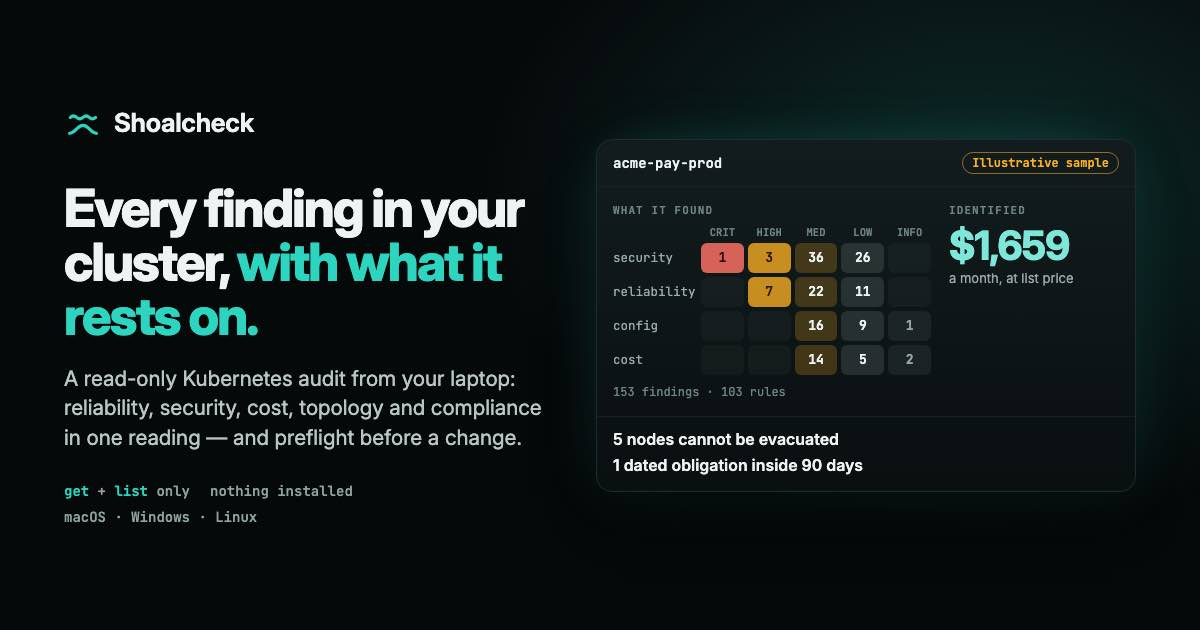
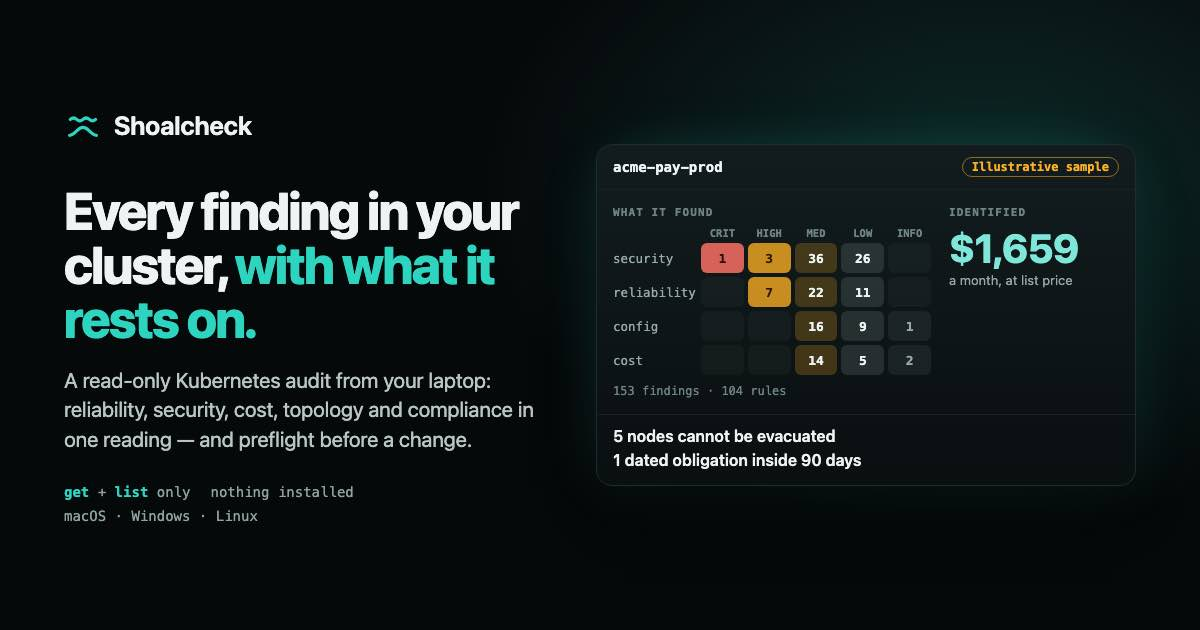
site: site: 104 rules in every reading, the share card re-rendered

diff --git a/index.html b/index.html
@@ -188,7 +188,7 @@
 <!-- ═══ PROOF STRIP ═══ -->
 <section class="strip" aria-label="What it does, in numbers">
   <div class="wrap strip-grid">
-    <div class="stat reveal"><b>103</b><span>rules in every reading, each naming what it rests on</span></div>
+    <div class="stat reveal"><b>104</b><span>rules in every reading, each naming what it rests on</span></div>
     <div class="stat reveal"><b>47</b><span>resource types it may read — get and list, nothing else</span></div>
     <div class="stat reveal"><b>0</b><span>object writes — counted, not promised</span></div>
     <div class="stat reveal"><b>3</b><span>systems: macOS, Windows, Linux</span></div>
@@ -727,11 +727,11 @@
 </footer>
 
 <script type="application/json" id="flow-data">{"cluster":"acme-pay-prod","sample":"testdata/golden/sample-audit.json","steps":[{"key":"read","sources":[{"command":"shoalcheck findings --input sample-audit.json --severity critical,high && shoalcheck findings --input sample-audit.json --each --category cost --limit 3","env":"TZ=UTC","tool":"shoalcheck, built from this tree (cmd/shoalcheck)","input":"testdata/golden/sample-audit.json","date":"2026-10-22"}],"runs":[{"cmd":"shoalcheck findings --input sample-audit.json --severity critical,high","out":["#  WHY          SEV       N  $/MO  FINDING                                                                  WORKLOAD","1  critical     critical  1     -  Review cluster-admin grant on ServiceAccount workers/cicd-deployer       ClusterRoleBinding acme-deployer-cluster-admin","2  true now     high      4     -  No ready address is published for api/api-gateway                        Service api/api-gateway","3  next change  high      1     -  A node roll meets 5 of 12 nodes it cannot evacuate                       Node ip-10-0-1-a","4  next change  high      1     -  Losing zone eu-central-1a leaves 2 pods with no node this model accepts  Pod payments/payments-ledger-db-0","5  posture      high      2     -  ClusterRole cluster-admin permits every verb on every resource           ClusterRole cluster-admin","6  posture      high      1     -  ClusterRoleBinding acme-break-glass binds Group system:masters           ClusterRoleBinding acme-break-glass","7  posture      high      1     -  Single replica without PDB: monitoring/prometheus-k8s                    StatefulSet monitoring/prometheus-k8s","acme-pay-prod · reading of 15 Sep 2026 05:28 · sample-audit.json","7 rows, one per rule, for 11 of 153 findings · --each lists every finding"],"exit":0},{"cmd":"shoalcheck findings --input sample-audit.json --each --category cost --limit 3","out":["#   WHY    SEV     $/MO  FINDING                                                                  WORKLOAD","22  money  medium  $365  Kubernetes 1.31 is past AWS's ordinary support window                    Cluster 1.31","23  money  medium  $300  Right-size over-provisioned requests on workers/webhook-dispatcher       Deployment workers/webhook-dispatcher","24  money  low     $266  3 r6i.4xlarge nodes list 10% above r6a.4xlarge, an equivalent x86 shape  Node ip-10-0-2-a","acme-pay-prod · reading of 15 Sep 2026 05:28 · sample-audit.json","3 of 153 findings shown (21 match, --limit 3)"],"exit":0}]},{"key":"review","sources":[{"command":"claude -p \"$(cat prompt.txt)\" --model opus --output-format stream-json --verbose --max-budget-usd 5 --mcp-config '{\"mcpServers\":{\"shoalcheck\":{\"type\":\"stdio\",\"command\":\"<shoalcheck-mcp built from this tree>\"}}}' --strict-mcp-config --tools \"\" --allowedTools mcp__shoalcheck__list_readings,mcp__shoalcheck__list_findings,mcp__shoalcheck__explain_finding,mcp__shoalcheck__diff_readings,mcp__shoalcheck__request_reading --permission-mode dontAsk --setting-sources \"\" --disable-slash-commands --no-session-persistence","env":"SHOALCHECK_HOME=<a scratch home whose history holds the sample reading>, SHOALCHECK_LICENCE=<a Team key>","tool":"Claude Code 2.1.307, headless; shoalcheck-mcp built from this tree (cmd/shoalcheck-mcp), its only tools","model":"claude-opus-5-5","input":"testdata/golden/sample-audit.json, saved into that history through history.Store","date":"2026-10-22"},{"command":"shoalcheck ticket push --from sample-audit.json --tracker linear --project <TEAM> --finding <id> --dry-run","env":"TZ=UTC","tool":"shoalcheck, built from this tree (cmd/shoalcheck)","input":"testdata/golden/sample-audit.json; each finding is the one the agent named for that team","date":"2026-10-22"}],"model":"claude-opus-5-5","prompt":"Review the latest Shoalcheck reading of our cluster. Group the findings by the team that owns them, and pick the one finding each team should fix first. Explain the webhook-dispatcher right-sizing finding in full, including what it does not establish. Then propose one ticket per team: the finding it is for and a title. Keep it short — a few lines per team, no tables.","calls":[{"tool":"list_readings","args":{},"answer":{"readings":[{"cluster":"acme-pay-prod","at":"2026-09-15T05:28:50Z","ageSeconds":3171713,"signature":"signed","…":true}],"count":1},"chars":174},{"tool":"list_findings","args":{"group_by":"owner"},"answer":{"reading":{"cluster":"acme-pay-prod","readingAt":"2026-09-15T05:28:50Z","ageSeconds":3171713,"signature":"signed","staleness":{"note":"this reading is 881 hours old, past this server's 24-hour threshold. It is served in full and nothing is withheld; a fresher one needs a human to run an audit — see the request_reading tool.","…":true},"…":true},"groupBy":"owner","groups":[{"key":"(no owner resolved)","count":43,"dollars":822.874,"…":true},{"key":"data","count":39,"dollars":515.5391025641026,"…":true},{"key":"core-api","count":30,"dollars":149.38794871794872,"…":true},{"key":"payments","count":29,"dollars":159.00897435897437,"…":true},{"key":"sre","count":12,"dollars":12.484871794871795,"…":true}],"envelope":{"total":153,"totalDollars":1659.2948974358974,"…":true}},"chars":4150},{"tool":"list_findings","args":{"owner":"data","limit":8},"answer":{"findings":[{"id":"f-6033acc002d3","severity":"critical","title":"Review cluster-admin grant on ServiceAccount workers/cicd-deployer","…":true},{"id":"f-a8efe8be5bea","severity":"high","title":"ClusterRole acme-secret-sync permits reading Secrets","…":true},{"id":"f-b76762a637f1","severity":"medium","title":"Right-size over-provisioned requests on workers/webhook-dispatcher","…":true},{"…":5}],"envelope":{"returned":8,"total":153,"…":true},"…":true},"chars":3948},{"tool":"list_findings","args":{"owner":"core-api","limit":8},"answer":{"findings":[{"id":"f-1dec706d3b80","severity":"high","title":"No ready address is published for api/api-gateway","…":true},{"id":"f-320f01c079a1","severity":"medium","title":"Right-size over-provisioned requests on api/search-indexer","…":true},{"id":"f-84f33e0e702b","severity":"medium","title":"Right-size over-provisioned requests on api/api-gateway","…":true},{"…":5}],"envelope":{"returned":8,"total":153,"…":true},"…":true},"chars":3908},{"tool":"list_findings","args":{"owner":"payments","limit":8},"answer":{"findings":[{"id":"f-2345f2b5c939","severity":"high","title":"No ready address is published for payments/old-admin-lb","…":true},{"id":"f-3bd52b116bda","severity":"high","title":"Losing zone eu-central-1a leaves 2 pods with no node this model accepts","…":true},{"id":"f-8a4946523606","severity":"high","title":"No ready address is published for payments/legacy-checkout-lb","…":true},{"…":5}],"envelope":{"returned":8,"total":153,"…":true},"…":true},"chars":3982},{"tool":"list_findings","args":{"owner":"sre","limit":8},"answer":{"findings":[{"id":"f-3a00f5538dd0","severity":"high","title":"Single replica without PDB: monitoring/prometheus-k8s","…":true},{"id":"f-f555739b377e","severity":"medium","title":"Right-size over-provisioned requests on monitoring/prometheus-k8s","…":true},{"id":"f-62cc16fb0b88","severity":"medium","title":"Enforce non-root at the API for monitoring/node-exporter (runAsNonRoot unset)","…":true},{"…":5}],"envelope":{"returned":8,"total":153,"…":true},"…":true},"chars":3849},{"tool":"list_findings","args":{"rule":"right","limit":50},"answer":{"findings":[],"envelope":{"returned":0,"total":153,"…":true},"…":true},"chars":1271},{"tool":"explain_finding","args":{"id":"f-b76762a637f1","cluster":"acme-pay-prod"},"answer":{"finding":{"id":"f-b76762a637f1","title":"Right-size over-provisioned requests on workers/webhook-dispatcher","severity":"medium","dollarImpactMonthly":299.6369230769231,"priceBasis":"priced","confidence":0.75,"owner":"data","claimBoundaries":{"lines":["The figure is computed from a dated public list price, not from your bill. No credential of yours was used and no invoice was read, so a negotiated rate, a private offer or a credit is invisible here.","Whether a commitment already covers this footprint is a billing-account fact this product cannot see. A saving stated at the on-demand rate is wrong for the term of any plan that already applies.",{"…":3}],"…":true},"…":true},"…":true},"chars":4964},{"tool":"list_findings","args":{"owner":"(no owner resolved)","limit":6},"answer":{"findings":[],"envelope":{"returned":0,"total":153,"…":true},"…":true},"chars":1271},{"tool":"list_findings","args":{"severity":"critical,high","limit":40},"answer":{"findings":[{"id":"f-6033acc002d3","severity":"critical","title":"Review cluster-admin grant on ServiceAccount workers/cicd-deployer","…":true},{"id":"f-1dec706d3b80","severity":"high","title":"No ready address is published for api/api-gateway","…":true},{"id":"f-2345f2b5c939","severity":"high","title":"No ready address is published for payments/old-admin-lb","…":true},{"…":8}],"envelope":{"returned":11,"total":153,"…":true},"…":true},"chars":4895}],"text":"I used the only reading on this machine: **acme-pay-prod, taken 2026-09-15, which is about 37 days old.** It is signed and read all 27 resource kinds, but nothing below has been checked against the cluster as it is today. It holds 153 findings with an estimated $1,659/mo in potential savings.\n\n## By owning team\n\n**data** (39 findings, ~$516/mo). Fix first: `f-6033acc002d3`, the only critical in the reading. ServiceAccount `workers/cicd-deployer` has cluster-admin through `ClusterRoleBinding/acme-deployer-cluster-admin`, so anyone who gets that account controls the whole cluster.\n\n**core-api** (30 findings, ~$149/mo). Fix first: `f-1dec706d3b80` (high). `Service/api/api-gateway` had no ready endpoints at reading time, with confidence 0.6. This could have been a short glitch, so check it live before acting.\n\n**payments** (29 findings, ~$159/mo). Fix first: `f-3bd52b116bda` (high, confidence 1.0). If zone eu-central-1a goes down, 2 pods, including `payments-ledger-db-0`, have no node they can move to. The three legacy LoadBalancers with no endpoints are cheaper to deal with, but they look like dead services rather than a real risk.\n\n**sre** (12 findings, ~$12/mo). Fix first: `f-3a00f5538dd0` (high). `monitoring/prometheus-k8s` runs as a single replica with no PodDisruptionBudget (PDB). The right-sizing numbers also come from this Prometheus.\n\n**No owner resolved** (43 findings, ~$823/mo, the largest group). These include a node roll that would hit 5 of 12 nodes it can't drain (`f-8a9c190a59a5`) and the `acme-break-glass` binding to `system:masters` (`f-3c8cba621747`). This group needs an owner before it can get a ticket.\n\n## webhook-dispatcher right-sizing (`f-b76762a637f1`, data, medium, confidence 0.75)\n\n- **What it found:** 6 replicas each request 2000m CPU and 8192Mi memory. Over 7 days, CPU usage was 640m at p95. Memory was 2785Mi at p95 with a peak of 4751Mi.\n- **What it recommends:** lower the requests to **840m CPU** (p95 plus 30%) and **4992Mi memory** (peak plus 5%; the memory request never goes below the observed peak). That frees about 6960m CPU and 19200Mi memory in total.\n- **Price:** **up to $299.64/mo**, if the freed capacity is consolidated onto fewer nodes. That uses the list price for m6i.xlarge in eu-central-1 ($167.90 per node per month), and CPU is the limit.\n\n**What it does not establish:**\n- **It is not your bill.** It uses public list prices, so negotiated rates, credits and existing commitments or savings plans are not reflected.\n- **Identified is not realised.** The money is only saved if the pool is limited by node count on CPU and an autoscaler or manual shrink actually removes a node. On a fixed-size or memory-limited pool, it saves $0.\n- **It says nothing about latency or SLOs.** p95 ignores the busiest moments, so CPU set below what a burst needs gets throttled. Memory is bursty (the peak is well above p95), so going below the peak would get the container OOM-killed.\n- **It only knows the 7 days Prometheus had,** and that week ended 37 days ago, so current usage may be different.\n\n## Proposed tickets\n\n- **data:** `f-6033acc002d3`: \"Replace cluster-admin on workers/cicd-deployer with a least-privilege role\"\n- **core-api:** `f-1dec706d3b80`: \"Check api/api-gateway Service endpoints and fix readiness / port mismatch\"\n  - The same reading shows a probe aimed at an undeclared port and two different builds of `:latest` running, which may explain it.\n- **payments:** `f-3bd52b116bda`: \"Make payments-ledger-db-0 survive loss of eu-central-1a\"\n- **sre:** `f-3a00f5538dd0`: \"Add a replica and PDB for monitoring/prometheus-k8s\"\n\nBefore you open these, a fresh reading would show whether each one is still true. Should I file a request for one? That only leaves a note and the command for whoever runs the audit; it doesn't touch the cluster.","turns":11,"seconds":32,"tickets":[{"team":"data","project":"DATA","finding":"f-6033acc002d3","cmd":"shoalcheck ticket push --from sample-audit.json --tracker linear --project DATA --finding f-6033acc002d3 --dry-run","exit":0,"head":"--- would create in linear/DATA ---","title":"[CRITICAL] Review cluster-admin grant on ServiceAccount workers/cicd-deployer","lines":["Found by a Shoalcheck read-only audit of cluster `acme-pay-prod`.","Reading taken at 2026-09-15T05:28:50Z. Nothing here has been re-checked since."],"table":[["severity","critical"],["category","security"],["effort","high"],["remediation safety","manual"],["monthly cost impact","no cost dimension"]],"marker":"shoalcheck-dedup: shoalcheck:v1:acme-pay-prod:f-6033acc002d3","tail":"1 payload assembled. --dry-run contacted nothing."},{"team":"core-api","project":"CORE","finding":"f-1dec706d3b80","cmd":"shoalcheck ticket push --from sample-audit.json --tracker linear --project CORE --finding f-1dec706d3b80 --dry-run","exit":0,"head":"--- would create in linear/CORE ---","title":"[HIGH] No ready address is published for api/api-gateway","lines":["Found by a Shoalcheck read-only audit of cluster `acme-pay-prod`.","Reading taken at 2026-09-15T05:28:50Z. Nothing here has been re-checked since."],"table":[["severity","high"],["category","reliability"],["effort","low"],["remediation safety","manual"],["monthly cost impact","no cost dimension"]],"marker":"shoalcheck-dedup: shoalcheck:v1:acme-pay-prod:f-1dec706d3b80","tail":"1 payload assembled. --dry-run contacted nothing."},{"team":"payments","project":"PAY","finding":"f-3bd52b116bda","cmd":"shoalcheck ticket push --from sample-audit.json --tracker linear --project PAY --finding f-3bd52b116bda --dry-run","exit":0,"head":"--- would create in linear/PAY ---","title":"[HIGH] Losing zone eu-central-1a leaves 2 pods with no node this model accepts","lines":["Found by a Shoalcheck read-only audit of cluster `acme-pay-prod`.","Reading taken at 2026-09-15T05:28:50Z. Nothing here has been re-checked since."],"table":[["severity","high"],["category","reliability"],["effort","high"],["remediation safety","manual"],["monthly cost impact","no cost dimension"]],"marker":"shoalcheck-dedup: shoalcheck:v1:acme-pay-prod:f-3bd52b116bda","tail":"1 payload assembled. --dry-run contacted nothing."},{"team":"sre","project":"SRE","finding":"f-3a00f5538dd0","cmd":"shoalcheck ticket push --from sample-audit.json --tracker linear --project SRE --finding f-3a00f5538dd0 --dry-run","exit":0,"head":"--- would create in linear/SRE ---","title":"[HIGH] Single replica without PDB: monitoring/prometheus-k8s","lines":["Found by a Shoalcheck read-only audit of cluster `acme-pay-prod`.","Reading taken at 2026-09-15T05:28:50Z. Nothing here has been re-checked since."],"table":[["severity","high"],["category","reliability"],["effort","medium"],["remediation safety","manual"],["monthly cost impact","no cost dimension"]],"marker":"shoalcheck-dedup: shoalcheck:v1:acme-pay-prod:f-3a00f5538dd0","tail":"1 payload assembled. --dry-run contacted nothing."}]},{"key":"gate","sources":[{"tool":"GitHub's record of pull request #1 in ilya776/shoalcheck-gate-demo: the gate's run on each commit","input":"testdata/site/gate-demo.json","block":"gate-demo","date":"2026-10-20"},{"command":"shoalcheck diff --cluster acme-pay-prod","env":"TZ=UTC","tool":"shoalcheck, built from this tree (cmd/shoalcheck)","input":"testdata/golden/sample-audit.json and testdata/golden/sample-remediated.json, saved through history.Store","block":"film-mcp","date":"2026-10-22"}],"runs":[{"cmd":"shoalcheck diff --cluster acme-pay-prod","out":["diff for acme-pay-prod","  baseline: 2026-09-15T05:28:50Z","  current:  2026-09-15T06:28:50Z","  findings: -1 (Δtotal)   still present: 152","  savings:  -299.64 USD/mo (Δ)","  new (0):","  no longer in this reading (1):","    - [medium] Right-size over-provisioned requests on workers/webhook-dispatcher (f-b76762a637f1)","  by severity:","    medium   -1"],"exit":0}]}]}</script>
-<script type="application/json" id="film-mcp">[{"tool":"list_findings","args":{"group_by":"owner"},"answer":{"envelope":{"dollarsBasis":"priced","total":153,"totalDollars":1659.2948974358974},"groupBy":"owner","groups":[{"count":43,"dollars":822.874,"dollarsBasis":"priced","findingIds":43,"key":"(no owner resolved)"},{"count":39,"dollars":515.5391025641026,"dollarsBasis":"priced","findingIds":39,"key":"data"},{"count":30,"dollars":149.38794871794872,"dollarsBasis":"priced","findingIds":30,"key":"core-api"},{"count":29,"dollars":159.00897435897437,"dollarsBasis":"priced","findingIds":29,"key":"payments"},{"count":12,"dollars":12.484871794871795,"dollarsBasis":"priced","findingIds":12,"key":"sre"}],"reading":{"cluster":"acme-pay-prod","kindsRead":27,"readingAt":"2026-09-15T05:28:50Z","ruleSetCount":103}}},{"tool":"explain_finding","args":{"id":"f-b76762a637f1"},"answer":{"finding":{"category":"cost","claimBoundaries":{"lines":["The figure is computed from a dated public list price, not from your bill. No credential of yours was used and no invoice was read, so a negotiated rate, a private offer or a credit is invisible here.","Whether a commitment already covers this footprint is a billing-account fact this product cannot see. A saving stated at the on-demand rate is wrong for the term of any plan that already applies.","Identified is not realised. Nothing here has been reclaimed, and the arithmetic assumes the freed capacity is actually given up rather than absorbed elsewhere.","This rests on a measured window from a metrics source, so it is only as long as that source has been running: a young Prometheus reports a short window and the confidence says so. Without a usage source the rule emits nothing rather than guessing.","Requests are compared against observed p95 with headroom, taking the busiest replica rather than the mean. It is a statement about reserved capacity, never about whether the workload is fast enough."],"resolvedAt":"reading"},"confidence":0.75,"dollarImpactMonthly":299.6369230769231,"id":"f-b76762a637f1","owner":"data","priceBasis":"priced","ruleId":"k8s.cost.overprovisioned-resources","severity":"medium","title":"Right-size over-provisioned requests on workers/webhook-dispatcher"},"reading":{"cluster":"acme-pay-prod","kindsRead":27,"readingAt":"2026-09-15T05:28:50Z","ruleSetCount":103}}},{"tool":"diff_readings","args":{},"answer":{"diff":{"findingsDelta":-1,"newCount":0,"noLongerInSetCount":1,"notEvaluatedCount":0,"previousAt":"2026-09-15T05:28:50Z","savingsDelta":-299.63692307692304},"reading":{"cluster":"acme-pay-prod","kindsRead":27,"readingAt":"2026-09-15T06:28:50Z","ruleSetCount":103}}}]</script>
+<script type="application/json" id="film-mcp">[{"tool":"list_findings","args":{"group_by":"owner"},"answer":{"envelope":{"dollarsBasis":"priced","total":153,"totalDollars":1659.2948974358974},"groupBy":"owner","groups":[{"count":43,"dollars":822.874,"dollarsBasis":"priced","findingIds":43,"key":"(no owner resolved)"},{"count":39,"dollars":515.5391025641026,"dollarsBasis":"priced","findingIds":39,"key":"data"},{"count":30,"dollars":149.38794871794872,"dollarsBasis":"priced","findingIds":30,"key":"core-api"},{"count":29,"dollars":159.00897435897437,"dollarsBasis":"priced","findingIds":29,"key":"payments"},{"count":12,"dollars":12.484871794871795,"dollarsBasis":"priced","findingIds":12,"key":"sre"}],"reading":{"cluster":"acme-pay-prod","kindsRead":27,"readingAt":"2026-09-15T05:28:50Z","ruleSetCount":104}}},{"tool":"explain_finding","args":{"id":"f-b76762a637f1"},"answer":{"finding":{"category":"cost","claimBoundaries":{"lines":["The figure is computed from a dated public list price, not from your bill. No credential of yours was used and no invoice was read, so a negotiated rate, a private offer or a credit is invisible here.","Whether a commitment already covers this footprint is a billing-account fact this product cannot see. A saving stated at the on-demand rate is wrong for the term of any plan that already applies.","Identified is not realised. Nothing here has been reclaimed, and the arithmetic assumes the freed capacity is actually given up rather than absorbed elsewhere.","This rests on a measured window from a metrics source, so it is only as long as that source has been running: a young Prometheus reports a short window and the confidence says so. Without a usage source the rule emits nothing rather than guessing.","Requests are compared against observed p95 with headroom, taking the busiest replica rather than the mean. It is a statement about reserved capacity, never about whether the workload is fast enough."],"resolvedAt":"reading"},"confidence":0.75,"dollarImpactMonthly":299.6369230769231,"id":"f-b76762a637f1","owner":"data","priceBasis":"priced","ruleId":"k8s.cost.overprovisioned-resources","severity":"medium","title":"Right-size over-provisioned requests on workers/webhook-dispatcher"},"reading":{"cluster":"acme-pay-prod","kindsRead":27,"readingAt":"2026-09-15T05:28:50Z","ruleSetCount":104}}},{"tool":"diff_readings","args":{},"answer":{"diff":{"findingsDelta":-1,"newCount":0,"noLongerInSetCount":1,"notEvaluatedCount":0,"previousAt":"2026-09-15T05:28:50Z","savingsDelta":-299.63692307692304},"reading":{"cluster":"acme-pay-prod","kindsRead":27,"readingAt":"2026-09-15T06:28:50Z","ruleSetCount":104}}}]</script>
 <script type="application/json" id="caps-data">{"security":{"chains":[["api/api-operator","acme-api-operator","acme-api-operator","critical"],["Group/system:masters","acme-break-glass","cluster-admin","critical"],["workers/cicd-deployer","acme-deployer-cluster-admin","cluster-admin","critical"],["Group/system:authenticated","acme-everyone-can-read","acme-secret-sync","high"],["workers/acme-migrator-retired","acme-legacy-migrator","acme-secret-sync","high"],["payments/secret-sync","acme-secret-sync","acme-secret-sync","high"],["workers/cicd-deployer","acme-legacy-reporting","acme-reporting-reader","medium"]]},"reliability":{"zones":[["eu-central-1a",[["ip-10-0-1-a",true],["ip-10-0-1-d",true],["ip-10-0-1-g",false],["ip-10-0-2-a",true]]],["eu-central-1b",[["ip-10-0-1-b",true],["ip-10-0-1-e",false],["ip-10-0-1-h",false],["ip-10-0-2-b",false]]],["eu-central-1c",[["ip-10-0-1-c",true],["ip-10-0-1-f",false],["ip-10-0-1-i",false],["ip-10-0-2-c",false]]]]},"money":{"rules":[["requests above use",777,10],["older instance generations",417,2],["extended support",365,1],["idle load balancers",59,3],["gp2 where gp3 is cheaper",40,1]],"total":1659},"topology":{"edges":[["api-gateway","auth-service",121,0],["api-gateway","payments-gateway",35,0],["api-gateway","search-indexer",18,0],["ledger-reconciler","payments-gateway",2.2,0],["payments-gateway","payments-orchestrator",34,0],["payments-orchestrator","webhook-dispatcher",12,0]],"nodes":[["api-gateway",0,0],["ledger-reconciler",0,1],["auth-service",1,0],["search-indexer",1,1],["payments-gateway",1,2],["payments-orchestrator",2,0],["webhook-dispatcher",3,0]],"unit":"flows"},"compliance":{"controls":[["1.1.1","NA"],["1.2.1","NA"],["2.1","NA"],["3.2.1","NA"],["4.2.1","NA"],["5.1.1","FAIL"],["5.1.2","FAIL"],["5.1.3","MANUAL"],["5.1.4","FAIL"],["5.1.5","FAIL"],["5.1.6","FAIL"],["5.1.7","MANUAL"],["5.1.8","FAIL"],["5.1.9","FAIL"],["5.1.10","FAIL"],["5.1.11","FAIL"],["5.1.12","FAIL"],["5.1.13","FAIL"],["5.2.1","FAIL"],["5.2.2","FAIL"],["5.2.3","FAIL"],["5.2.4","FAIL"],["5.2.5","FAIL"],["5.2.6","FAIL"],["5.2.7","FAIL"],["5.2.8","PASS"],["5.2.9","PASS"],["5.2.10","FAIL"],["5.2.11","MANUAL"],["5.2.12","FAIL"],["5.2.13","FAIL"],["5.3.2","FAIL"],["5.4.1","FAIL"],["5.5.1","FAIL"],["5.7.2","MANUAL"],["5.7.3","FAIL"],["5.7.4","FAIL"]],"inScope":32,"checkable":28},"preflight":{"cmd":"shoalcheck preflight drain ip-10-0-1-a","head":"✗ ip-10-0-1-a cannot be evacuated: 1 thing stops the drain","why":"workers/debug-shell-ondemand — kubectl drain refuses to evict the pod on node ip-10-0-1-a unless it is given --force, and with --force deletes it: nothing recreates a pod no controller manages.","exit":2},"fleet":{"clusters":["acme-pay-prod","acme-pay-staging","acme-pay-dr"],"rows":[["api","pod-security.enforce",["(not declared)","baseline","(not declared)"]],["api","pod-security.warn",["(not declared)","restricted","(not declared)"]],["cluster","operators.installed",["(not declared)","(not declared)","velero.io"]],["payments","limitrange.present",["none declared","none declared","declared"]],["payments","networkpolicy.present",["none declared","declared","none declared"]],["payments","pod-security.enforce",["(not declared)","restricted","baseline"]],["payments","resourcequota.present",["none declared","declared","none declared"]]]},"history":{"since":"the week before","new":["Deployment api/auth-service declares an environment variable twice"],"gone":1,"notCompared":0}}</script>
 <!-- Filled by scripts/launch/publish-site.sh with the release the downloads point at; empty in this repository. -->
 <script type="application/json" id="release">{"tag":"v0.1.0","prerelease":false,"published":"2026-10-27","url":"https://github.com/Shoalcheck/shoalcheck/releases/tag/v0.1.0","assets":[{"name":"checksums.txt","url":"https://github.com/Shoalcheck/shoalcheck/releases/download/v0.1.0/checksums.txt"},{"name":"checksums.txt.sigstore.json","url":"https://github.com/Shoalcheck/shoalcheck/releases/download/v0.1.0/checksums.txt.sigstore.json"},{"name":"cosign.pub","url":"https://github.com/Shoalcheck/shoalcheck/releases/download/v0.1.0/cosign.pub"},{"name":"kubectl-shoalcheck_0.1.0_darwin_amd64.tar.gz","url":"https://github.com/Shoalcheck/shoalcheck/releases/download/v0.1.0/kubectl-shoalcheck_0.1.0_darwin_amd64.tar.gz"},{"name":"kubectl-shoalcheck_0.1.0_darwin_amd64.tar.gz.sbom.json","url":"https://github.com/Shoalcheck/shoalcheck/releases/download/v0.1.0/kubectl-shoalcheck_0.1.0_darwin_amd64.tar.gz.sbom.json"},{"name":"kubectl-shoalcheck_0.1.0_darwin_arm64.tar.gz","url":"https://github.com/Shoalcheck/shoalcheck/releases/download/v0.1.0/kubectl-shoalcheck_0.1.0_darwin_arm64.tar.gz"},{"name":"kubectl-shoalcheck_0.1.0_darwin_arm64.tar.gz.sbom.json","url":"https://github.com/Shoalcheck/shoalcheck/releases/download/v0.1.0/kubectl-shoalcheck_0.1.0_darwin_arm64.tar.gz.sbom.json"},{"name":"kubectl-shoalcheck_0.1.0_linux_amd64.tar.gz","url":"https://github.com/Shoalcheck/shoalcheck/releases/download/v0.1.0/kubectl-shoalcheck_0.1.0_linux_amd64.tar.gz"},{"name":"kubectl-shoalcheck_0.1.0_linux_amd64.tar.gz.sbom.json","url":"https://github.com/Shoalcheck/shoalcheck/releases/download/v0.1.0/kubectl-shoalcheck_0.1.0_linux_amd64.tar.gz.sbom.json"},{"name":"kubectl-shoalcheck_0.1.0_linux_arm64.tar.gz","url":"https://github.com/Shoalcheck/shoalcheck/releases/download/v0.1.0/kubectl-shoalcheck_0.1.0_linux_arm64.tar.gz"},{"name":"kubectl-shoalcheck_0.1.0_linux_arm64.tar.gz.sbom.json","url":"https://github.com/Shoalcheck/shoalcheck/releases/download/v0.1.0/kubectl-shoalcheck_0.1.0_linux_arm64.tar.gz.sbom.json"},{"name":"kubectl-shoalcheck_0.1.0_windows_amd64.zip","url":"https://github.com/Shoalcheck/shoalcheck/releases/download/v0.1.0/kubectl-shoalcheck_0.1.0_windows_amd64.zip"},{"name":"kubectl-shoalcheck_0.1.0_windows_amd64.zip.sbom.json","url":"https://github.com/Shoalcheck/shoalcheck/releases/download/v0.1.0/kubectl-shoalcheck_0.1.0_windows_amd64.zip.sbom.json"},{"name":"kubectl-shoalcheck_0.1.0_windows_arm64.zip","url":"https://github.com/Shoalcheck/shoalcheck/releases/download/v0.1.0/kubectl-shoalcheck_0.1.0_windows_arm64.zip"},{"name":"kubectl-shoalcheck_0.1.0_windows_arm64.zip.sbom.json","url":"https://github.com/Shoalcheck/shoalcheck/releases/download/v0.1.0/kubectl-shoalcheck_0.1.0_windows_arm64.zip.sbom.json"},{"name":"shoalcheck-app_0.1.0_linux_amd64.tar.gz","url":"https://github.com/Shoalcheck/shoalcheck/releases/download/v0.1.0/shoalcheck-app_0.1.0_linux_amd64.tar.gz"},{"name":"shoalcheck-app_0.1.0_linux_amd64.tar.gz.sbom.json","url":"https://github.com/Shoalcheck/shoalcheck/releases/download/v0.1.0/shoalcheck-app_0.1.0_linux_amd64.tar.gz.sbom.json"},{"name":"shoalcheck-app_0.1.0_linux_arm64.tar.gz","url":"https://github.com/Shoalcheck/shoalcheck/releases/download/v0.1.0/shoalcheck-app_0.1.0_linux_arm64.tar.gz"},{"name":"shoalcheck-app_0.1.0_linux_arm64.tar.gz.sbom.json","url":"https://github.com/Shoalcheck/shoalcheck/releases/download/v0.1.0/shoalcheck-app_0.1.0_linux_arm64.tar.gz.sbom.json"},{"name":"shoalcheck-app_0.1.0_windows_amd64.zip","url":"https://github.com/Shoalcheck/shoalcheck/releases/download/v0.1.0/shoalcheck-app_0.1.0_windows_amd64.zip"},{"name":"shoalcheck-app_0.1.0_windows_amd64.zip.sbom.json","url":"https://github.com/Shoalcheck/shoalcheck/releases/download/v0.1.0/shoalcheck-app_0.1.0_windows_amd64.zip.sbom.json"},{"name":"shoalcheck-app_0.1.0_windows_arm64.zip","url":"https://github.com/Shoalcheck/shoalcheck/releases/download/v0.1.0/shoalcheck-app_0.1.0_windows_arm64.zip"},{"name":"shoalcheck-app_0.1.0_windows_arm64.zip.sbom.json","url":"https://github.com/Shoalcheck/shoalcheck/releases/download/v0.1.0/shoalcheck-app_0.1.0_windows_arm64.zip.sbom.json"},{"name":"shoalcheck-mcp_0.1.0_darwin_amd64.tar.gz","url":"https://github.com/Shoalcheck/shoalcheck/releases/download/v0.1.0/shoalcheck-mcp_0.1.0_darwin_amd64.tar.gz"},{"name":"shoalcheck-mcp_0.1.0_darwin_amd64.tar.gz.sbom.json","url":"https://github.com/Shoalcheck/shoalcheck/releases/download/v0.1.0/shoalcheck-mcp_0.1.0_darwin_amd64.tar.gz.sbom.json"},{"name":"shoalcheck-mcp_0.1.0_darwin_arm64.tar.gz","url":"https://github.com/Shoalcheck/shoalcheck/releases/download/v0.1.0/shoalcheck-mcp_0.1.0_darwin_arm64.tar.gz"},{"name":"shoalcheck-mcp_0.1.0_darwin_arm64.tar.gz.sbom.json","url":"https://github.com/Shoalcheck/shoalcheck/releases/download/v0.1.0/shoalcheck-mcp_0.1.0_darwin_arm64.tar.gz.sbom.json"},{"name":"shoalcheck-mcp_0.1.0_linux_amd64.tar.gz","url":"https://github.com/Shoalcheck/shoalcheck/releases/download/v0.1.0/shoalcheck-mcp_0.1.0_linux_amd64.tar.gz"},{"name":"shoalcheck-mcp_0.1.0_linux_amd64.tar.gz.sbom.json","url":"https://github.com/Shoalcheck/shoalcheck/releases/download/v0.1.0/shoalcheck-mcp_0.1.0_linux_amd64.tar.gz.sbom.json"},{"name":"shoalcheck-mcp_0.1.0_linux_arm64.tar.gz","url":"https://github.com/Shoalcheck/shoalcheck/releases/download/v0.1.0/shoalcheck-mcp_0.1.0_linux_arm64.tar.gz"},{"name":"shoalcheck-mcp_0.1.0_linux_arm64.tar.gz.sbom.json","url":"https://github.com/Shoalcheck/shoalcheck/releases/download/v0.1.0/shoalcheck-mcp_0.1.0_linux_arm64.tar.gz.sbom.json"},{"name":"shoalcheck-mcp_0.1.0_windows_amd64.zip","url":"https://github.com/Shoalcheck/shoalcheck/releases/download/v0.1.0/shoalcheck-mcp_0.1.0_windows_amd64.zip"},{"name":"shoalcheck-mcp_0.1.0_windows_amd64.zip.sbom.json","url":"https://github.com/Shoalcheck/shoalcheck/releases/download/v0.1.0/shoalcheck-mcp_0.1.0_windows_amd64.zip.sbom.json"},{"name":"shoalcheck-mcp_0.1.0_windows_arm64.zip","url":"https://github.com/Shoalcheck/shoalcheck/releases/download/v0.1.0/shoalcheck-mcp_0.1.0_windows_arm64.zip"},{"name":"shoalcheck-mcp_0.1.0_windows_arm64.zip.sbom.json","url":"https://github.com/Shoalcheck/shoalcheck/releases/download/v0.1.0/shoalcheck-mcp_0.1.0_windows_arm64.zip.sbom.json"},{"name":"shoalcheck-update.json","url":"https://github.com/Shoalcheck/shoalcheck/releases/download/v0.1.0/shoalcheck-update.json"},{"name":"shoalcheck_0.1.0_darwin_amd64.tar.gz","url":"https://github.com/Shoalcheck/shoalcheck/releases/download/v0.1.0/shoalcheck_0.1.0_darwin_amd64.tar.gz"},{"name":"shoalcheck_0.1.0_darwin_amd64.tar.gz.sbom.json","url":"https://github.com/Shoalcheck/shoalcheck/releases/download/v0.1.0/shoalcheck_0.1.0_darwin_amd64.tar.gz.sbom.json"},{"name":"shoalcheck_0.1.0_darwin_arm64.tar.gz","url":"https://github.com/Shoalcheck/shoalcheck/releases/download/v0.1.0/shoalcheck_0.1.0_darwin_arm64.tar.gz"},{"name":"shoalcheck_0.1.0_darwin_arm64.tar.gz.sbom.json","url":"https://github.com/Shoalcheck/shoalcheck/releases/download/v0.1.0/shoalcheck_0.1.0_darwin_arm64.tar.gz.sbom.json"},{"name":"shoalcheck_0.1.0_linux_amd64.tar.gz","url":"https://github.com/Shoalcheck/shoalcheck/releases/download/v0.1.0/shoalcheck_0.1.0_linux_amd64.tar.gz"},{"name":"shoalcheck_0.1.0_linux_amd64.tar.gz.sbom.json","url":"https://github.com/Shoalcheck/shoalcheck/releases/download/v0.1.0/shoalcheck_0.1.0_linux_amd64.tar.gz.sbom.json"},{"name":"shoalcheck_0.1.0_linux_arm64.tar.gz","url":"https://github.com/Shoalcheck/shoalcheck/releases/download/v0.1.0/shoalcheck_0.1.0_linux_arm64.tar.gz"},{"name":"shoalcheck_0.1.0_linux_arm64.tar.gz.sbom.json","url":"https://github.com/Shoalcheck/shoalcheck/releases/download/v0.1.0/shoalcheck_0.1.0_linux_arm64.tar.gz.sbom.json"},{"name":"Shoalcheck_0.1.0_macos_universal.dmg","url":"https://github.com/Shoalcheck/shoalcheck/releases/download/v0.1.0/Shoalcheck_0.1.0_macos_universal.dmg"},{"name":"shoalcheck_0.1.0_windows_amd64.zip","url":"https://github.com/Shoalcheck/shoalcheck/releases/download/v0.1.0/shoalcheck_0.1.0_windows_amd64.zip"},{"name":"shoalcheck_0.1.0_windows_amd64.zip.sbom.json","url":"https://github.com/Shoalcheck/shoalcheck/releases/download/v0.1.0/shoalcheck_0.1.0_windows_amd64.zip.sbom.json"},{"name":"Shoalcheck_0.1.0_windows_amd64_setup.exe","url":"https://github.com/Shoalcheck/shoalcheck/releases/download/v0.1.0/Shoalcheck_0.1.0_windows_amd64_setup.exe"},{"name":"shoalcheck_0.1.0_windows_arm64.zip","url":"https://github.com/Shoalcheck/shoalcheck/releases/download/v0.1.0/shoalcheck_0.1.0_windows_arm64.zip"},{"name":"shoalcheck_0.1.0_windows_arm64.zip.sbom.json","url":"https://github.com/Shoalcheck/shoalcheck/releases/download/v0.1.0/shoalcheck_0.1.0_windows_arm64.zip.sbom.json"},{"name":"Shoalcheck_0.1.0_windows_arm64_setup.exe","url":"https://github.com/Shoalcheck/shoalcheck/releases/download/v0.1.0/Shoalcheck_0.1.0_windows_arm64_setup.exe"}]}</script>
-<script type="application/json" id="hero-reading">{"cluster":"acme-pay-prod","where":"eks · eu-central-1 · k8s 1.31.2-eks-1a2b3c4","kinds":[["pods",33],["nodes",12],["deployments",10],["statefulsets",3],["daemonsets",2],["services",5],["clusterrolebindings",5],["cronjobs",1],["persistentvolumes",3],["jobs",2],["persistentvolumeclaims",2],["namespaces",6],["poddisruptionbudgets",2],["horizontalpodautoscalers",2],["rolebindings",2],["endpointslices",1],["serviceaccounts",5],["clusterroles",2],["ingresses",1],["storageclasses",2],["roles",1],["ingressclasses",1],["priorityclasses",1]],"objects":104,"kb":75,"rules":103,"checks":2349,"total":153,"cats":["security","reliability","config","cost"],"grid":[[1,3,36,26,0],[0,7,22,11,0],[0,0,16,9,1],[0,0,14,5,2]],"dollars":1659,"money":"list price · upper bound · $777 of it rests on prometheus over 7d, if consolidated","claims":[["5 nodes cannot be evacuated","drain feasibility · workers/licensed-etl-0 requests 250m cpu and 512Mi memory"],["1 dated obligation inside 90 days","2026-11-26 · dataset kubeversions 2026-08-31 · embedded"],["14 references point at nothing","a Service publishes no ready address · Service api/api-gateway — a reference, not an opinion"],["$1,659/mo identified","list price · upper bound · $777 of it rests on prometheus over 7d, if consolidated"]]}</script>
+<script type="application/json" id="hero-reading">{"cluster":"acme-pay-prod","where":"eks · eu-central-1 · k8s 1.31.2-eks-1a2b3c4","kinds":[["pods",33],["nodes",12],["deployments",10],["statefulsets",3],["daemonsets",2],["services",5],["clusterrolebindings",5],["cronjobs",1],["persistentvolumes",3],["jobs",2],["persistentvolumeclaims",2],["namespaces",6],["poddisruptionbudgets",2],["horizontalpodautoscalers",2],["rolebindings",2],["endpointslices",1],["serviceaccounts",5],["clusterroles",2],["ingresses",1],["storageclasses",2],["roles",1],["ingressclasses",1],["priorityclasses",1]],"objects":104,"kb":75,"rules":104,"checks":2356,"total":153,"cats":["security","reliability","config","cost"],"grid":[[1,3,36,26,0],[0,7,22,11,0],[0,0,16,9,1],[0,0,14,5,2]],"dollars":1659,"money":"list price · upper bound · $777 of it rests on prometheus over 7d, if consolidated","claims":[["5 nodes cannot be evacuated","drain feasibility · workers/licensed-etl-0 requests 250m cpu and 512Mi memory"],["1 dated obligation inside 90 days","2026-11-26 · dataset kubeversions 2026-08-31 · embedded"],["14 references point at nothing","a Service publishes no ready address · Service api/api-gateway — a reference, not an opinion"],["$1,659/mo identified","list price · upper bound · $777 of it rests on prometheus over 7d, if consolidated"]]}</script>
 <script type="application/json" id="zone-scene">{"cluster":"acme-pay-prod","lost":"eu-central-1a","zones":[{"z":"eu-central-1a","nodes":[{"n":"ip-10-0-1-a","t":"m6i.xlarge","p":[{"k":"payments/payments-gateway-7f4b9c0-a"},{"k":"monitoring/node-exporter-7f4b9c0-a"},{"k":"workers/ledger-reconciler-7f4b9c2-c"},{"k":"payments/payments-ledger-db-0","why":"its volume is pinned to eu-central-1a \u2014 it cannot move at all"},{"k":"workers/debug-shell-ondemand","bare":true}]},{"n":"ip-10-0-1-d","t":"m6i.xlarge","p":[{"k":"payments/payments-orchestrator-7f4b9c2-c"},{"k":"default/legacy-cron-runner-7f4b9c0-a"},{"k":"api/search-indexer-7f4b9c1-b"}]},{"n":"ip-10-0-1-g","t":"m6i.xlarge","p":[{"k":"api/api-gateway-7f4b9c0-a"},{"k":"workers/webhook-dispatcher-7f4b9c2-c"}]},{"n":"ip-10-0-2-a","t":"r6i.4xlarge","p":[{"k":"workers/risk-batch-processor-7f4b9c1-b"},{"k":"workers/webhook-dispatcher-7f4b9c5-f"},{"k":"workers/licensed-etl-0","why":"no surviving node satisfies its placement constraints"}]}]},{"z":"eu-central-1b","nodes":[{"n":"ip-10-0-1-b","t":"m6i.xlarge","p":[{"k":"payments/payments-orchestrator-7f4b9c0-a"},{"k":"monitoring/node-exporter-7f4b9c1-b"},{"k":"workers/ledger-reconciler-7f4b9c3-d"}]},{"n":"ip-10-0-1-e","t":"m6i.xlarge","p":[{"k":"api/auth-service-7f4b9c0-a"},{"k":"workers/webhook-dispatcher-7f4b9c0-a"},{"k":"api/search-indexer-7f4b9c2-c"},{"k":"monitoring/prometheus-k8s-0"}]},{"n":"ip-10-0-1-h","t":"m6i.xlarge","p":[{"k":"api/api-gateway-7f4b9c1-b"},{"k":"workers/webhook-dispatcher-7f4b9c3-d"}]},{"n":"ip-10-0-2-b","t":"r6i.4xlarge","p":[{"k":"workers/risk-batch-processor-7f4b9c2-c"},{"k":"workers/ledger-reconciler-7f4b9c0-a"}]}]},{"z":"eu-central-1c","nodes":[{"n":"ip-10-0-1-c","t":"m6i.xlarge","p":[{"k":"payments/payments-orchestrator-7f4b9c1-b"},{"k":"monitoring/node-exporter-7f4b9c2-c"},{"k":"api/search-indexer-7f4b9c0-a"}]},{"n":"ip-10-0-1-f","t":"m6i.xlarge","p":[{"k":"api/auth-service-7f4b9c1-b"},{"k":"workers/webhook-dispatcher-7f4b9c1-b"}]},{"n":"ip-10-0-1-i","t":"m6i.xlarge","p":[{"k":"workers/risk-batch-processor-7f4b9c0-a"},{"k":"workers/webhook-dispatcher-7f4b9c4-e"}]},{"n":"ip-10-0-2-c","t":"r6i.4xlarge","p":[{"k":"workers/risk-batch-processor-7f4b9c3-d"},{"k":"workers/ledger-reconciler-7f4b9c1-b"}]}]}]}</script>
 <script type="application/json" id="scene-verdicts">{"cluster":"acme-pay-prod","zones":[{"target":"eu-central-1a","headline":"✗ losing zone eu-central-1a leaves work with nowhere to go: 2 things","exit":2,"stranded":[{"pod":"payments/payments-ledger-db-0","why":"holds PersistentVolume pvc-ledger-db-0, which names the lost failure domain — it could not move at all"},{"pod":"workers/licensed-etl-0","why":"requests 250m cpu and 512Mi memory; no surviving node in this reading satisfies the modelled constraints"}]},{"target":"eu-central-1b","headline":"✓ zone eu-central-1b: every pod this model can place has somewhere else to go","exit":0},{"target":"eu-central-1c","headline":"✓ zone eu-central-1c: every pod this model can place has somewhere else to go","exit":0}],"nodes":[{"target":"ip-10-0-1-a","headline":"✗ ip-10-0-1-a cannot be evacuated: 1 thing stops the drain","exit":2,"blocked":[{"pod":"workers/debug-shell-ondemand","why":"kubectl drain refuses to evict the pod on node ip-10-0-1-a unless it is given --force, and with --force deletes it: nothing recreates a pod no controller manages."}]},{"target":"ip-10-0-1-b","headline":"✗ ip-10-0-1-b cannot be evacuated: 1 thing stops the drain","exit":2,"blocked":[{"pod":"payments/payments-orchestrator-7f4b9c0-a","why":"Evacuating node ip-10-0-1-b requires evicting 1 pod covered by PodDisruptionBudget payments/payments-orchestrator-pdb."}]},{"target":"ip-10-0-1-c","headline":"✗ ip-10-0-1-c cannot be evacuated: 1 thing stops the drain","exit":2,"blocked":[{"pod":"payments/payments-orchestrator-7f4b9c1-b","why":"Evacuating node ip-10-0-1-c requires evicting 1 pod covered by PodDisruptionBudget payments/payments-orchestrator-pdb."}]},{"target":"ip-10-0-1-d","headline":"✗ ip-10-0-1-d cannot be evacuated: 1 thing stops the drain","exit":2,"blocked":[{"pod":"payments/payments-orchestrator-7f4b9c2-c","why":"Evacuating node ip-10-0-1-d requires evicting 1 pod covered by PodDisruptionBudget payments/payments-orchestrator-pdb."}]},{"target":"ip-10-0-1-e","headline":"✓ ip-10-0-1-e: nothing this model checks stops the drain","exit":0},{"target":"ip-10-0-1-f","headline":"✓ ip-10-0-1-f: nothing this model checks stops the drain","exit":0},{"target":"ip-10-0-1-g","headline":"✓ ip-10-0-1-g: nothing this model checks stops the drain","exit":0},{"target":"ip-10-0-1-h","headline":"✓ ip-10-0-1-h: nothing this model checks stops the drain","exit":0},{"target":"ip-10-0-1-i","headline":"✓ ip-10-0-1-i: nothing this model checks stops the drain","exit":0},{"target":"ip-10-0-2-a","headline":"✗ ip-10-0-2-a cannot be evacuated: 1 thing stops the drain","exit":2,"stranded":[{"pod":"workers/licensed-etl-0","why":"requests 250m cpu and 512Mi memory; no surviving node in this reading satisfies the modelled constraints"}]},{"target":"ip-10-0-2-b","headline":"✓ ip-10-0-2-b: nothing this model checks stops the drain","exit":0},{"target":"ip-10-0-2-c","headline":"✓ ip-10-0-2-c: nothing this model checks stops the drain","exit":0}]}</script>
 <script type="application/json" id="support-windows">{"asOf":"2026-08-31","source":"https://endoflife.date","rateAsOf":"2026-09","rates":{"aws":0.5,"azure":0.5},"windows":{"aws":[["1.18","2020-10-13","2022-08-15",""],["1.19","2021-02-16","2022-08-01",""],["1.20","2021-05-18","2022-11-01",""],["1.21","2021-07-19","2023-02-16","2024-07-15"],["1.22","2022-04-04","2023-06-04","2024-09-01"],["1.23","2022-08-11","2023-10-11","2024-10-11"],["1.24","2022-11-15","2024-01-31","2025-01-31"],["1.25","2023-02-21","2024-05-01","2025-05-01"],["1.26","2023-04-11","2024-06-11","2025-06-11"],["1.27","2023-05-24","2024-07-24","2025-07-24"],["1.28","2023-09-26","2024-11-26","2025-11-26"],["1.29","2024-01-23","2025-03-23","2026-03-23"],["1.30","2024-05-23","2025-07-23","2026-07-23"],["1.31","2024-09-26","2025-11-26","2026-11-26"],["1.32","2025-01-25","2026-03-23","2027-03-23"],["1.33","2025-05-28","2026-07-29","2027-07-29"],["1.34","2025-10-06","2026-12-02","2027-12-02"],["1.35","2026-01-28","2027-03-27","2028-03-27"],["1.36","2026-06-02","2027-08-02","2028-08-02"]],"azure":[["1.21","2021-08-18","2022-07-31",""],["1.22","2022-01-10","2022-12-04",""],["1.23","2022-04-26","2023-04-02",""],["1.24","2022-08-17","2023-07-31",""],["1.25","2022-12-14","2024-01-14",""],["1.26","2023-04-18","2024-04-11",""],["1.27","2023-08-16","2024-07-31","2025-07-31"],["1.28","2023-11-07","2025-01-31","2026-02-28"],["1.29","2024-03-18","2025-03-31","2026-04-30"],["1.30","2024-08-05","2025-08-22","2026-07-31"],["1.31","2024-10-25","2025-11-01","2026-11-30"],["1.32","2025-04-06","2026-03-31","2027-03-31"],["1.33","2025-06-17","2026-07-31","2027-07-31"],["1.34","2026-01-04","2026-11-30","2027-11-30"],["1.35","2026-03-05","2027-03-31","2028-03-31"],["1.36","2026-06-30","2027-06-30","2028-06-30"]],"gcp":[["1.17","2021-03-29","2021-11-01",""],["1.18","2021-03-29","2022-03-01",""],["1.19","2021-04-14","2022-06-01",""],["1.20","2021-06-09","2022-08-01",""],["1.21","2021-10-01","2023-01-31",""],["1.22","2022-03-07","2023-04-30",""],["1.23","2022-05-03","2023-07-31",""],["1.24","2022-06-23","2023-10-31",""],["1.25","2022-12-14","2024-03-30",""],["1.26","2023-03-31","2024-06-30",""],["1.27","2023-06-15","2024-10-01",""],["1.28","2023-12-04","2025-02-04",""],["1.29","2024-01-26","2025-04-12",""],["1.30","2024-07-31","2025-09-30",""],["1.31","2024-10-25","2026-01-16",""],["1.32","2025-02-11","2026-04-11",""],["1.33","2025-06-03","2026-08-03",""],["1.34","2025-09-30","2026-10-01",""],["1.35","2026-02-11","2027-04-11",""],["1.36","2026-06-09","2027-08-09",""]],"upstream":[["1.16","2019-09-18","2020-08-04",""],["1.17","2019-12-07","2020-12-25",""],["1.18","2020-03-25","2021-06-18",""],["1.19","2020-08-26","2021-10-28",""],["1.20","2020-12-08","2022-02-28",""],["1.21","2021-04-08","2022-06-28",""],["1.22","2021-08-04","2022-10-28",""],["1.23","2021-12-07","2023-02-28",""],["1.24","2022-05-03","2023-07-28",""],["1.25","2022-08-23","2023-10-27",""],["1.26","2022-12-08","2024-02-28",""],["1.27","2023-04-11","2024-06-28",""],["1.28","2023-08-15","2024-10-28",""],["1.29","2023-12-13","2025-02-28",""],["1.30","2024-04-17","2025-07-15",""],["1.31","2024-08-13","2025-11-11",""],["1.32","2024-12-11","2026-02-28",""],["1.33","2025-04-23","2026-06-28",""],["1.34","2025-08-27","2026-10-27",""],["1.35","2025-12-17","2027-02-28",""],["1.36","2026-04-22","2027-06-28",""],["1.37","2026-08-26","2027-10-28",""]]}}</script>
